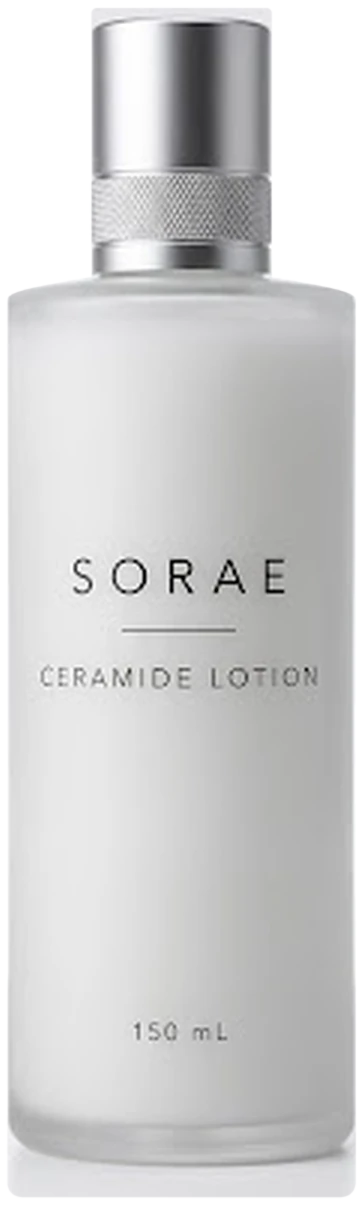
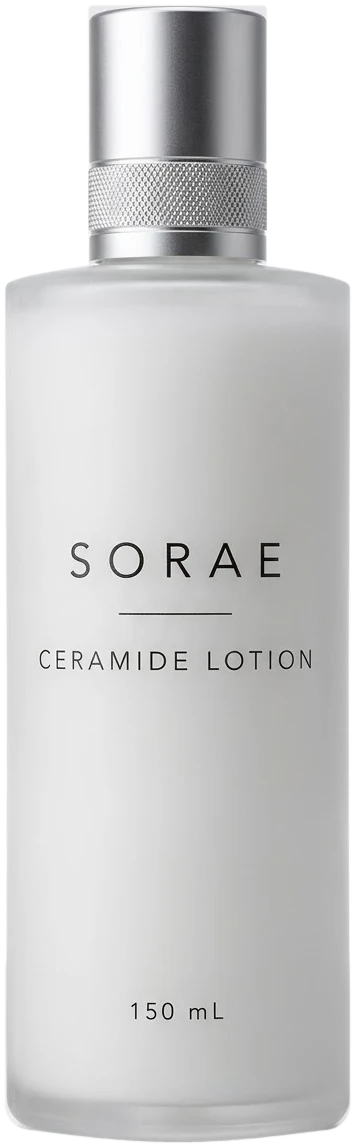
SORAE: ボトルを高画質の切り抜きに差し替え
Claude-Session: https://claude.ai/code/session_011G5VfBtan1DrH8gQ92yT6T

diff --git a/works/lp-lotion/index.html b/works/lp-lotion/index.html
@@ -232,7 +232,7 @@ footer .logo{font-size:16px;color:var(--ink);margin-bottom:6px}
   </div>
   <div class="bwrap par" id="bw" aria-hidden="true">
    <div class="tags par" id="tg"><span>CERAMIDE</span><span>CICA</span><span>8 FREE</span></div>
-   <img class="btl" src="bottle.webp" width="363" height="1205" alt="SORAE セラミドローション 150mL">
+   <img class="btl" src="bottle.webp" width="355" height="1147" alt="SORAE セラミドローション 150mL">
   </div>
  </div>
 </section>
